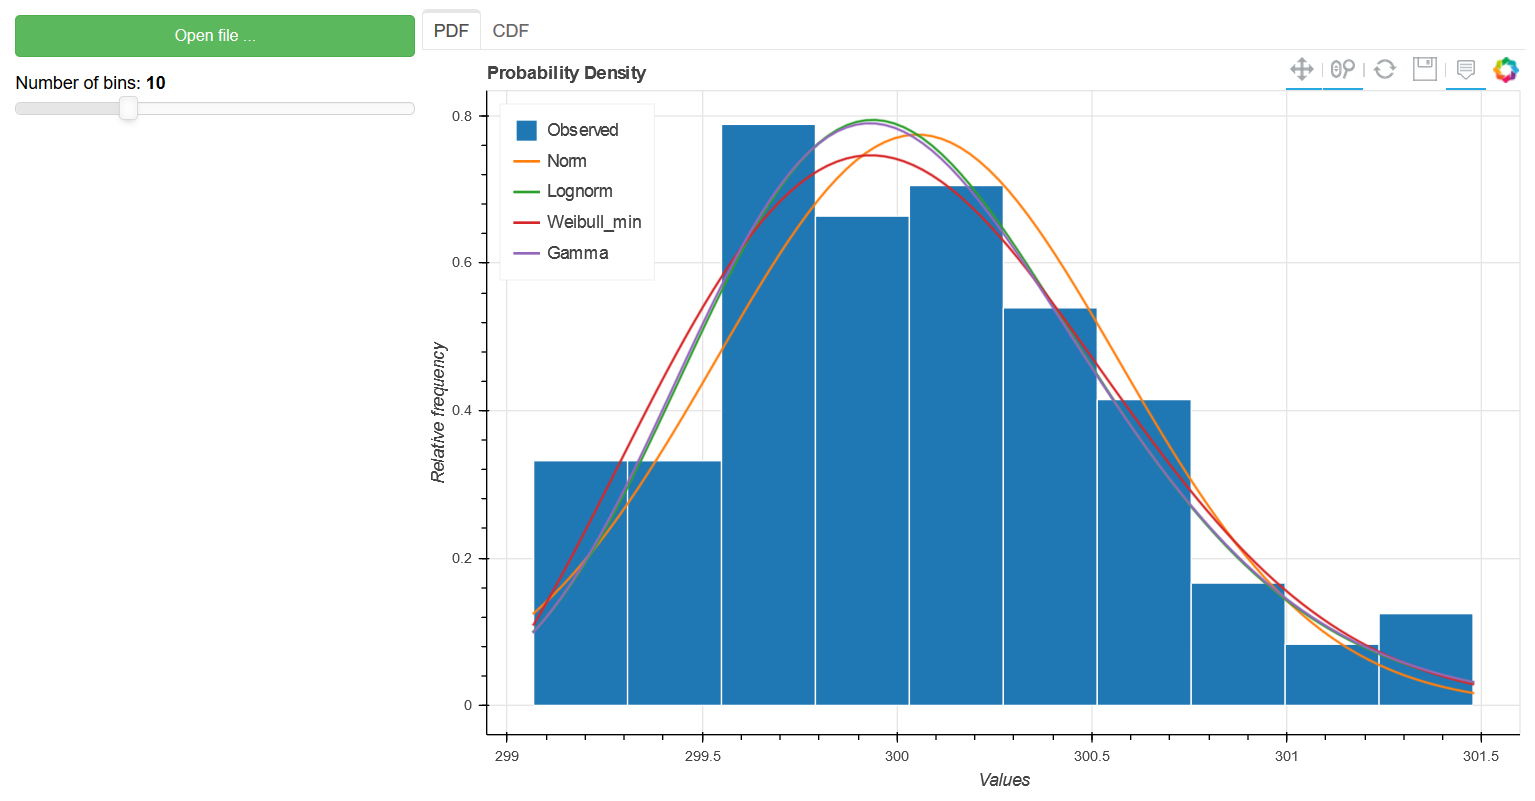
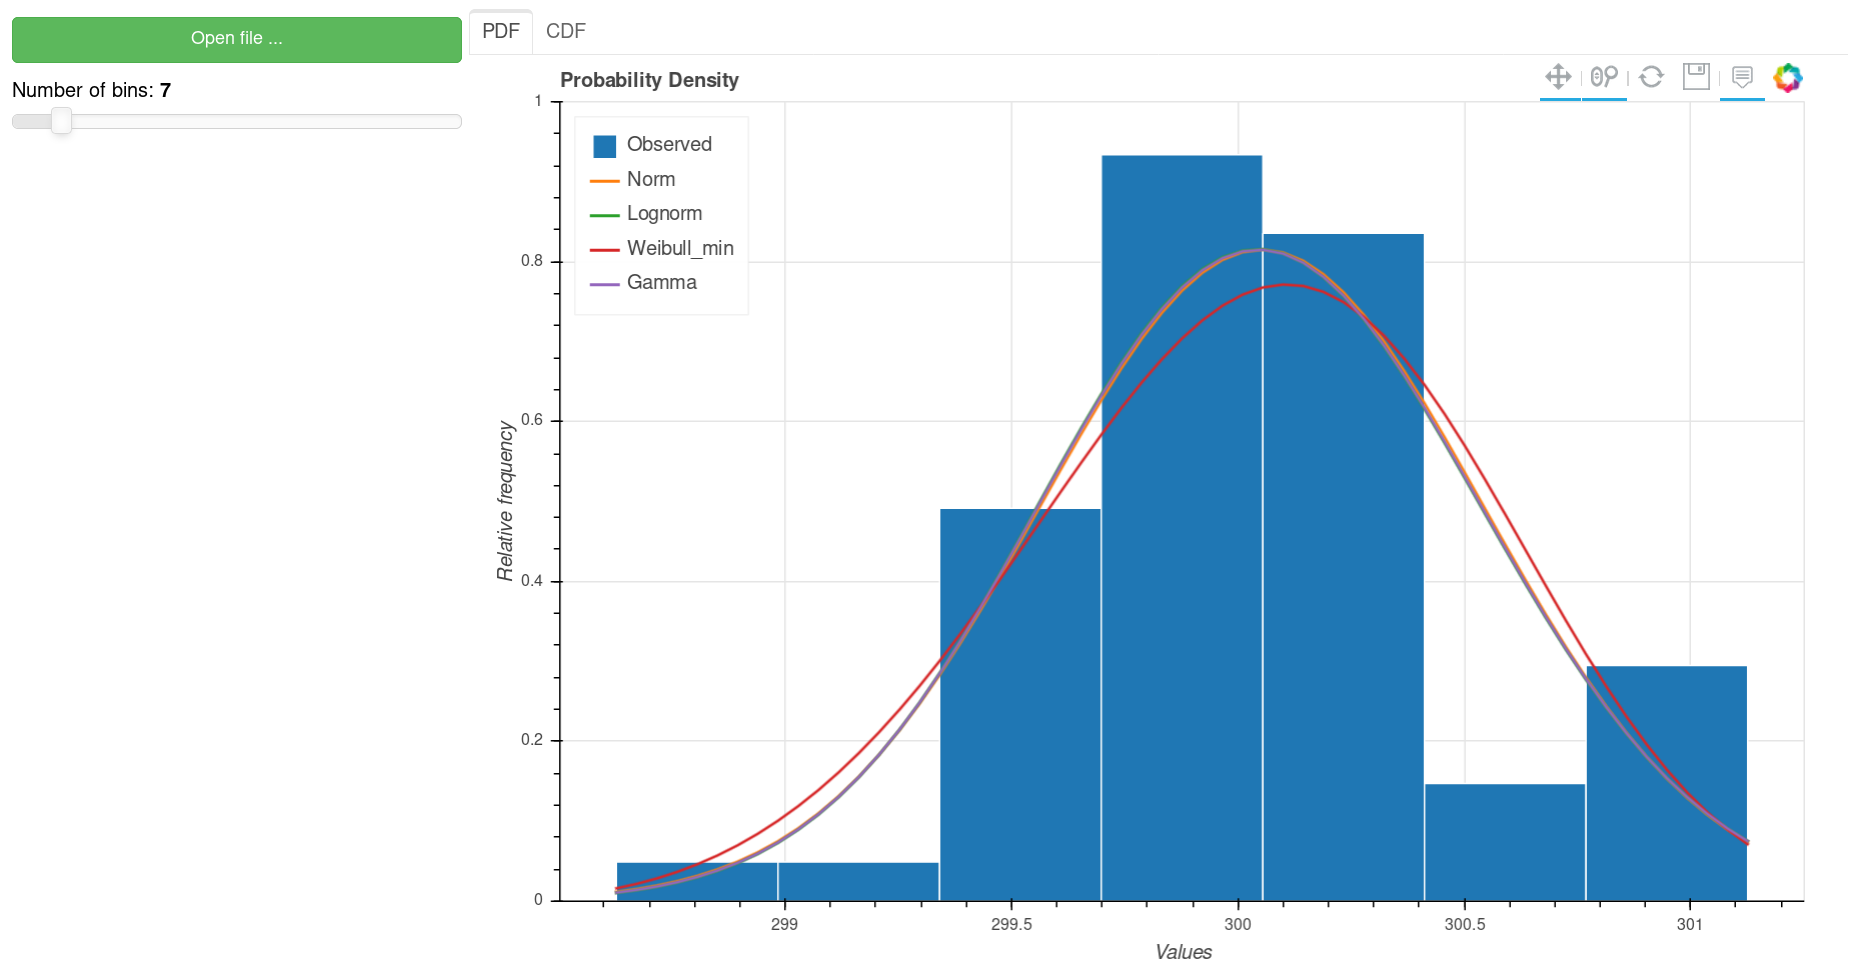
- Código JS inserido como string na função UploadButton - Definição de margens no gráfico

diff --git a/bokeh_models.py b/bokeh_models.py
@@ -34,6 +34,8 @@ class CustomFigure(Figure):
         )
         fig_opts.update(**kw)
         self.__dict__.update(Figure(**fig_opts).__dict__)
+        self.min_border_left = 60
+        self.min_border_right = 30
         self.__view_model__ = "Plot"
         self.__subtype__ = "Figure"
 
@@ -78,8 +80,36 @@ def UploadButton(label, callback, **kw):
     """
     button = Button(label=label, **kw)
     file_source = ColumnDataSource({"file_contents": [], "file_name": []})
-    with open("upload_button_callback.js", "r") as f:
-        code = f.read()
+    # with open("upload_button_callback.js", "r") as f:
+    code = """
+    function read_file(filename) {
+        var reader = new FileReader();
+        reader.onload = load_handler;
+        reader.onerror = error_handler;
+        // readAsDataURL represents the file's data as a base64 encoded string
+        reader.readAsDataURL(filename);
+    }
+    function load_handler(event) {
+        var b64string = event.target.result;
+        file_source.data = { 'file_contents': [b64string], 'file_name': [input.files[0].name] };
+        file_source.trigger("change");
+    }
+    function error_handler(evt) {
+        if (evt.target.error.name == "NotReadableError") {
+            alert("Can't read file!");
+        }
+    }
+    var input = document.createElement('input');
+    input.setAttribute('type', 'file');
+    input.onchange = function () {
+        if (window.FileReader) {
+            read_file(input.files[0]);
+        } else {
+            alert('FileReader is not supported in this browser');
+        }
+    }
+    input.click();
+    """
     button.callback = CustomJS(args=dict(file_source=file_source), code=code)
     # Define mma função a ser chamada após o upload do arquivo.
     def upload_callback(attr, old, new):
